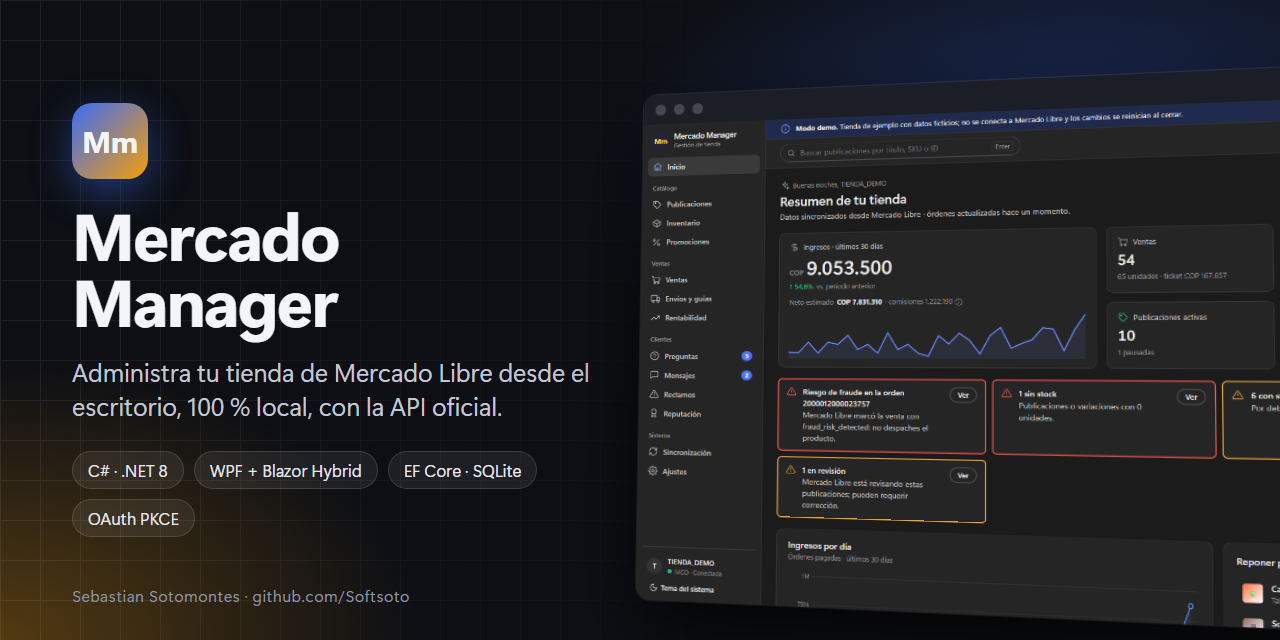
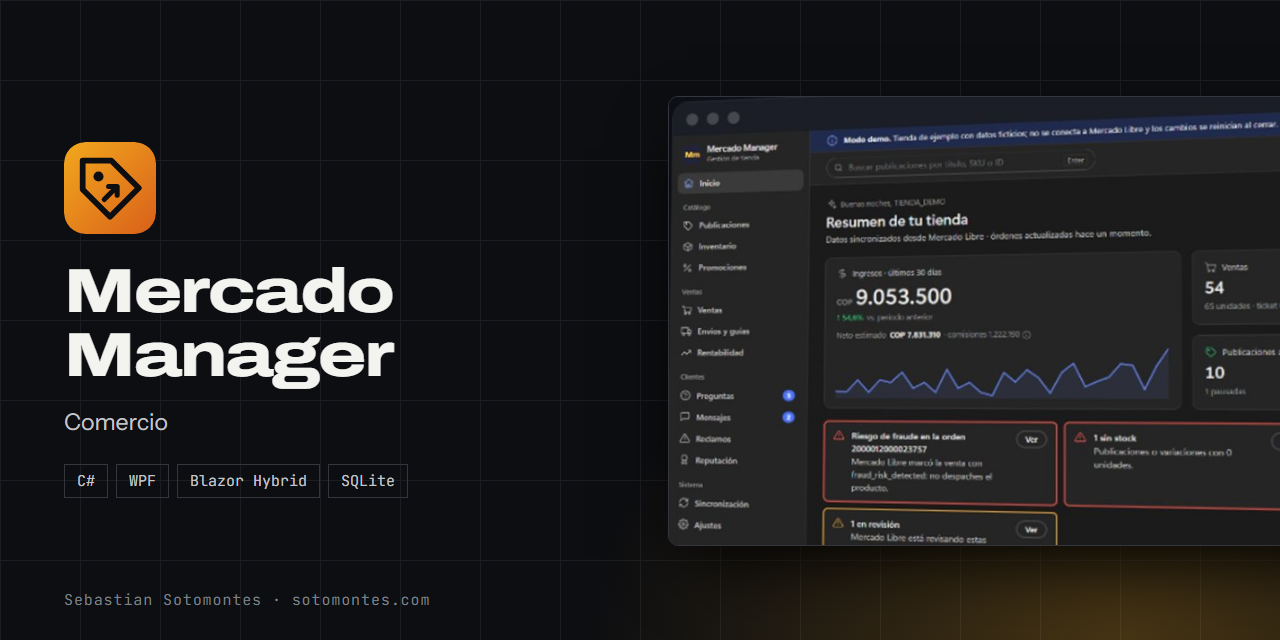
Presentacion de MercadoManager

Changed region(s): [[0.5, 0.0, 1.0, 1.0], [0.0, 0.1562, 0.4688, 1.0]]

diff --git a/README.md b/README.md
@@ -1,18 +1,40 @@
-<p align="center"><img src="images/logo.svg" alt="" width="96"></p>
-
-<h1 align="center">Mercado Manager</h1>
+<p align="center"><img src="images/banner.png" alt="Mercado Manager" width="100%"></p>
 
 <p align="center">Administra una tienda de Mercado Libre desde el escritorio, 100 % local y con la API oficial: publicaciones, ventas, envíos y rentabilidad.</p>
 
-<p align="center"><a href="https://sotomontes.com/#mercado-manager"><b>Ver en sotomontes.com</b></a></p>
+<p align="center"><a href="https://sotomontes.com/#mercado-manager"><b>Ver en sotomontes.com</b></a> · <a href="#cómo-se-usa">Cómo se usa</a> · <a href="#cómo-funciona-por-dentro">Cómo funciona</a> · <a href="#novedades">Novedades</a></p>
 
-**Autor:** Sebastian Sotomontes · © 2026
-
-> Esta página es solo una presentación del proyecto. El código y los instaladores son privados.
+| Ficha técnica | |
+|---|---|
+| **Autor** | Sebastian Sotomontes |
+| **Tipo** | Comercio |
+| **Plataforma** | Windows 10 y 11 |
+| **Versión** | 1.2.0 |
+| **Estado** | Estable |
+| **Stack** | C# · WPF · Blazor Hybrid · SQLite |
+| **Código** | Privado. Esta página es solo una presentación. |
 
 ---
 
-<p align="center"><img src="images/banner.png" alt="" width="100%"></p>
+## Qué es
+
+Mercado Manager administra una tienda de Mercado Libre desde el escritorio. Reúne en un solo lugar lo que normalmente exige saltar entre muchas pantallas: publicaciones, stock, ventas, envíos, preguntas y rentabilidad. Todo se guarda en tu equipo y se conecta con la API oficial, sin servidores de por medio.
+
+<p align="center"><img src="images/captura.jpg" alt="Captura de Mercado Manager" width="100%"></p>
+
+## Novedades
+
+- Interfaz rediseñada, preguntas y mensajes de posventa.
+- Envíos y guías con impresión en mosaico.
+
+## Cómo se usa
+
+1. Abre el programa e inicia sesión con tu cuenta principal de Mercado Libre en la ventana oficial de autorización.
+2. Espera la primera sincronización. **Inicio** muestra ingresos, ventas, lo que falta por despachar y las alertas importantes.
+3. En **Publicaciones** e **Inventario** edita precios y stock, y crea publicaciones nuevas con el botón **Publicar**.
+4. En **Ventas** y **Envíos y guías** revisa las órdenes e imprime las guías.
+5. En **Preguntas**, **Mensajes** y **Reclamos** atiende a tus compradores.
+6. En **Rentabilidad** y **Reputación** mide cómo va la tienda.
 
 ## Funciones
 
@@ -22,8 +44,60 @@
 - **Alertas** de stock bajo, publicaciones en revisión y riesgo de fraude.
 - **100 % local**: datos en SQLite y acceso con la API oficial y OAuth 2.0.
 
-## Tecnologías
+## Detalles
 
-C# · WPF · Blazor Hybrid · SQLite
+- Avisa de riesgo de fraude, productos sin stock y publicaciones en revisión.
+- Sincronización periódica e incremental.
+- Incluye un modo demo con una tienda de ejemplo.
+- Tema claro y oscuro.
+
+## Privacidad y seguridad
+
+El acceso usa OAuth 2.0 oficial. Los tokens se guardan cifrados con la protección de Windows, los registros eliminan secretos y el programa no abre ningún puerto.
+
+## Cómo funciona por dentro
+
+### Arquitectura
+
+```mermaid
+flowchart LR
+  subgraph APP["Programa de escritorio (.NET 8)"]
+    UI["WPF + Blazor Hybrid"]
+    SYNC["Sincronización incremental"]
+    DB[("SQLite con EF Core")]
+    AUTH["OAuth 2.0 + PKCE"]
+    VAULT["Tokens cifrados con DPAPI"]
+    UI <--> DB
+    SYNC --> DB
+    AUTH --> VAULT
+  end
+  SYNC <-->|"HTTPS"| API["API oficial de Mercado Libre"]
+  AUTH <-->|"HTTPS"| API
+```
+
+### Todo local
+
+No hay servidor, hosting ni servicios de terceros. La única conexión es con la API de Mercado Libre, y el programa no abre ningún puerto.
+
+### Inicio de sesión
+
+Usa OAuth 2.0 oficial con Authorization Code, PKCE y `state`, dentro de una ventana WebView2 que solo permite navegar por HTTPS. Los tokens se cifran con DPAPI y se renuevan automáticamente. Si se copia la base de datos a otro equipo, los tokens no se pueden leer allí.
+
+### Por qué sincroniza en vez de recibir avisos
+
+Mercado Libre envía sus notificaciones a una URL pública y exige respuesta en menos de 500 ms. Un programa local no tiene esa URL, así que la sincronización es periódica e incremental: recorre las publicaciones por última actualización hasta llegar a las que no cambiaron, y pide solo las órdenes modificadas. El intervalo se configura desde 5 minutos y hay un botón para sincronizar al momento.
+
+### Resiliencia
+
+Ante errores 429 o 5xx aplica reintentos con espera creciente y variación aleatoria. Los registros pasan por un redactor que elimina tokens y secretos.
+
+### Límites conocidos de la API
+
+- Las órdenes se conservan hasta 12 meses y la búsqueda como vendedor excluye las canceladas.
+- Las guías solo aplican a Mercado Envíos 2 cuando están listas para imprimir.
+- El neto descuenta la comisión de venta, pero no todos los costos.
+- La búsqueda por título se hace sobre la copia local.
+
+---
 
 <sub>© 2026 Sebastian Sotomontes. Todos los derechos reservados.</sub>
